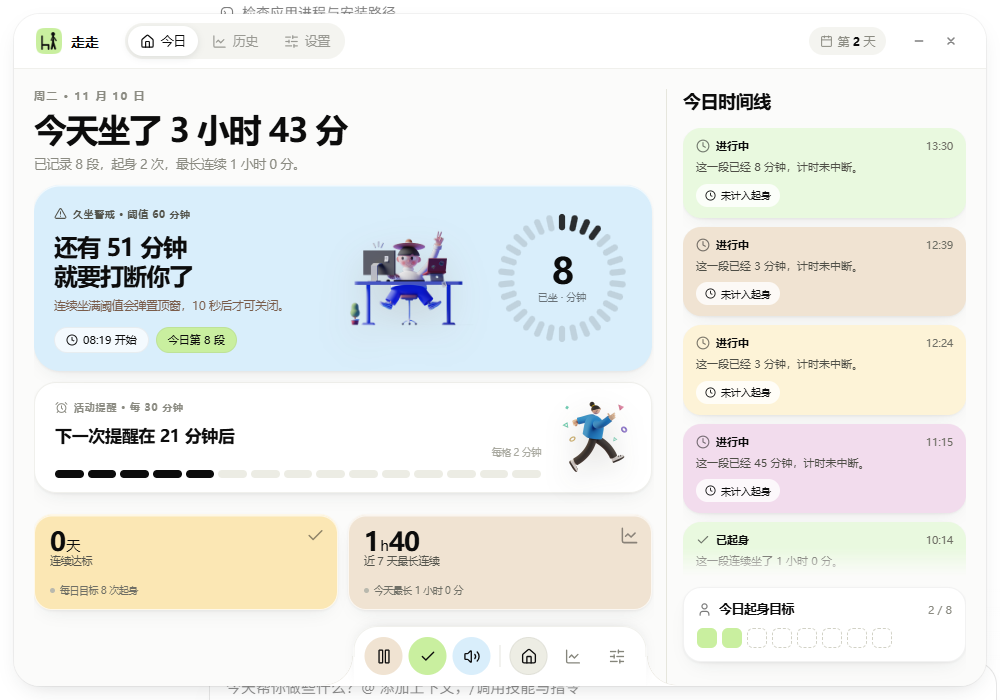
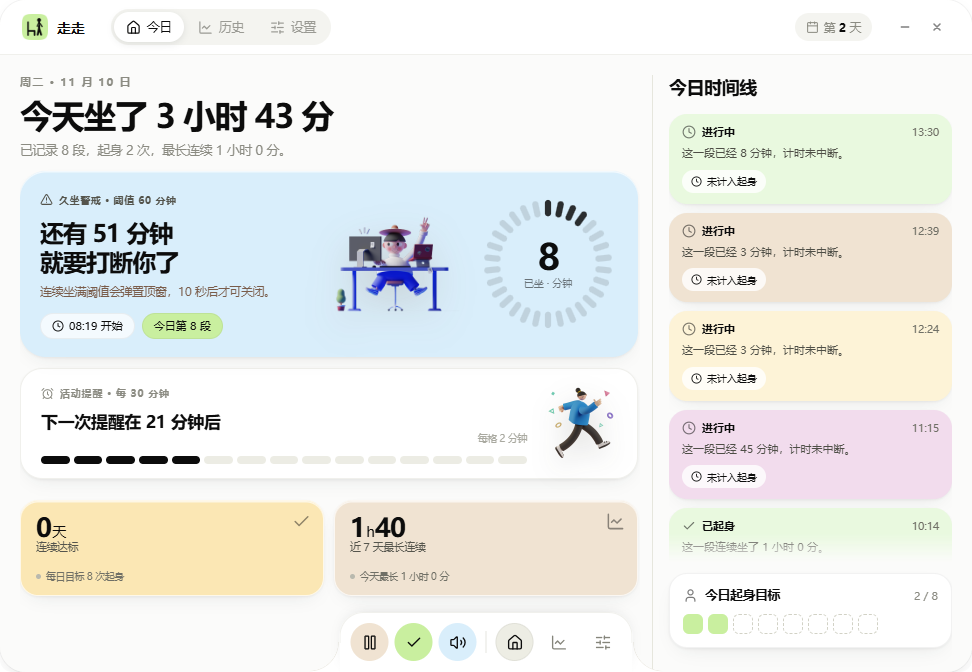
docs: README 改为主图两张，清理截图边距与空白
- hero 换成桌面今日页整幅图，扩展 popup 移到安装段
- desktop-today.png 裁掉 14px 透明边距（原来把背后窗口文字带进画面）+ 圆角遮罩
- ext-main.png 裁掉 CDP 600px 视口多出的底部空白
- 其余 4 张截图保留在 design/screenshots/，README 不再引用

diff --git a/README.md b/README.md
@@ -14,6 +14,11 @@
 
 ---
 
+<div align="center">
+  <img src="design/screenshots/desktop-today.png" width="100%" alt="桌面端 · 今日页">
+  <sub>桌面端 · 今日页</sub>
+</div>
+
 ## 这是什么
 
 同一个产品的两种形态，共用一套视觉与计时口径，**数据互不相通**：
@@ -25,11 +30,6 @@
 | 提醒 | 30 分钟轻提醒 + 60 分钟置顶警戒窗 | 60 分钟警戒通知，工具栏徽标常驻倒计时 |
 | 数据 | 本地 SQLite，保留历史 | `chrome.storage.local`，只存当天 |
 | 适合 | 一整天在电脑前工作 | 主要在浏览器里工作，不想装软件 |
-
-<div align="center">
-  <img src="design/screenshots/desktop-today.png" width="49%" alt="桌面端今日页">
-  <img src="design/screenshots/ext-main.png" width="34%" alt="扩展 popup">
-</div>
 
 ## 功能
 
@@ -48,11 +48,6 @@
 - 历史页：日均、达标天数、环比、时段分布热力图、逐日明细
 - 系统托盘、开机自启、CSV 导出、界面中英文、主题色
 
-<div align="center">
-  <img src="design/screenshots/desktop-history.png" width="49%" alt="历史页">
-  <img src="design/screenshots/desktop-settings.png" width="49%" alt="设置页">
-</div>
-
 ## 安装
 
 ### 桌面端（Windows）
@@ -62,6 +57,12 @@
 > 数据在 `%APPDATA%\app.sitless.desktop\sitless.db`，卸载不会删除。详细用法见 [桌面端手册](docs/desktop-guide.md)。
 
 ### 浏览器扩展（Chrome / Edge）
+
+<div align="center">
+  <img src="design/screenshots/ext-main.png" width="300" alt="扩展 popup">
+  <br>
+  <sub>点工具栏图标打开的 popup</sub>
+</div>
 
 到 Releases 下载 `sitless-extension.zip`，解压后：
 
@@ -91,7 +92,7 @@
 │
 ├─ design/                 设计资源
 │  ├─ logo/                图标唯一源头：mark.svg + 生成脚本，见其中的 README
-│  ├─ screenshots/         本 README 用到的成品截图
+│  ├─ screenshots/         成品截图（README 用两张，其余备用）
 │  ├─ assets/              3D 插画源文件
 │  ├─ source/              第三方素材包与原始压缩包，不入库
 │  └─ prototype.html       早期静态原型
@@ -115,7 +116,7 @@ python design/logo/export_platform_icons.py # → icns / ios / android
 
 | 目录 | 内容 | 是否入库 |
 |---|---|---|
-| `design/screenshots/` | 只为 README 保留的成品截图 | 是 |
+| `design/screenshots/` | 成品截图：桌面三页 + 扩展四态 | 是 |
 | `design/assets/` | 界面里用到的 3D 插画 | 是 |
 | `design/source/` | 第三方素材包、原始 zip | 否（体积大） |
 | `app/public/art/` | 桌面端运行时读取的插画副本 | 是 |
